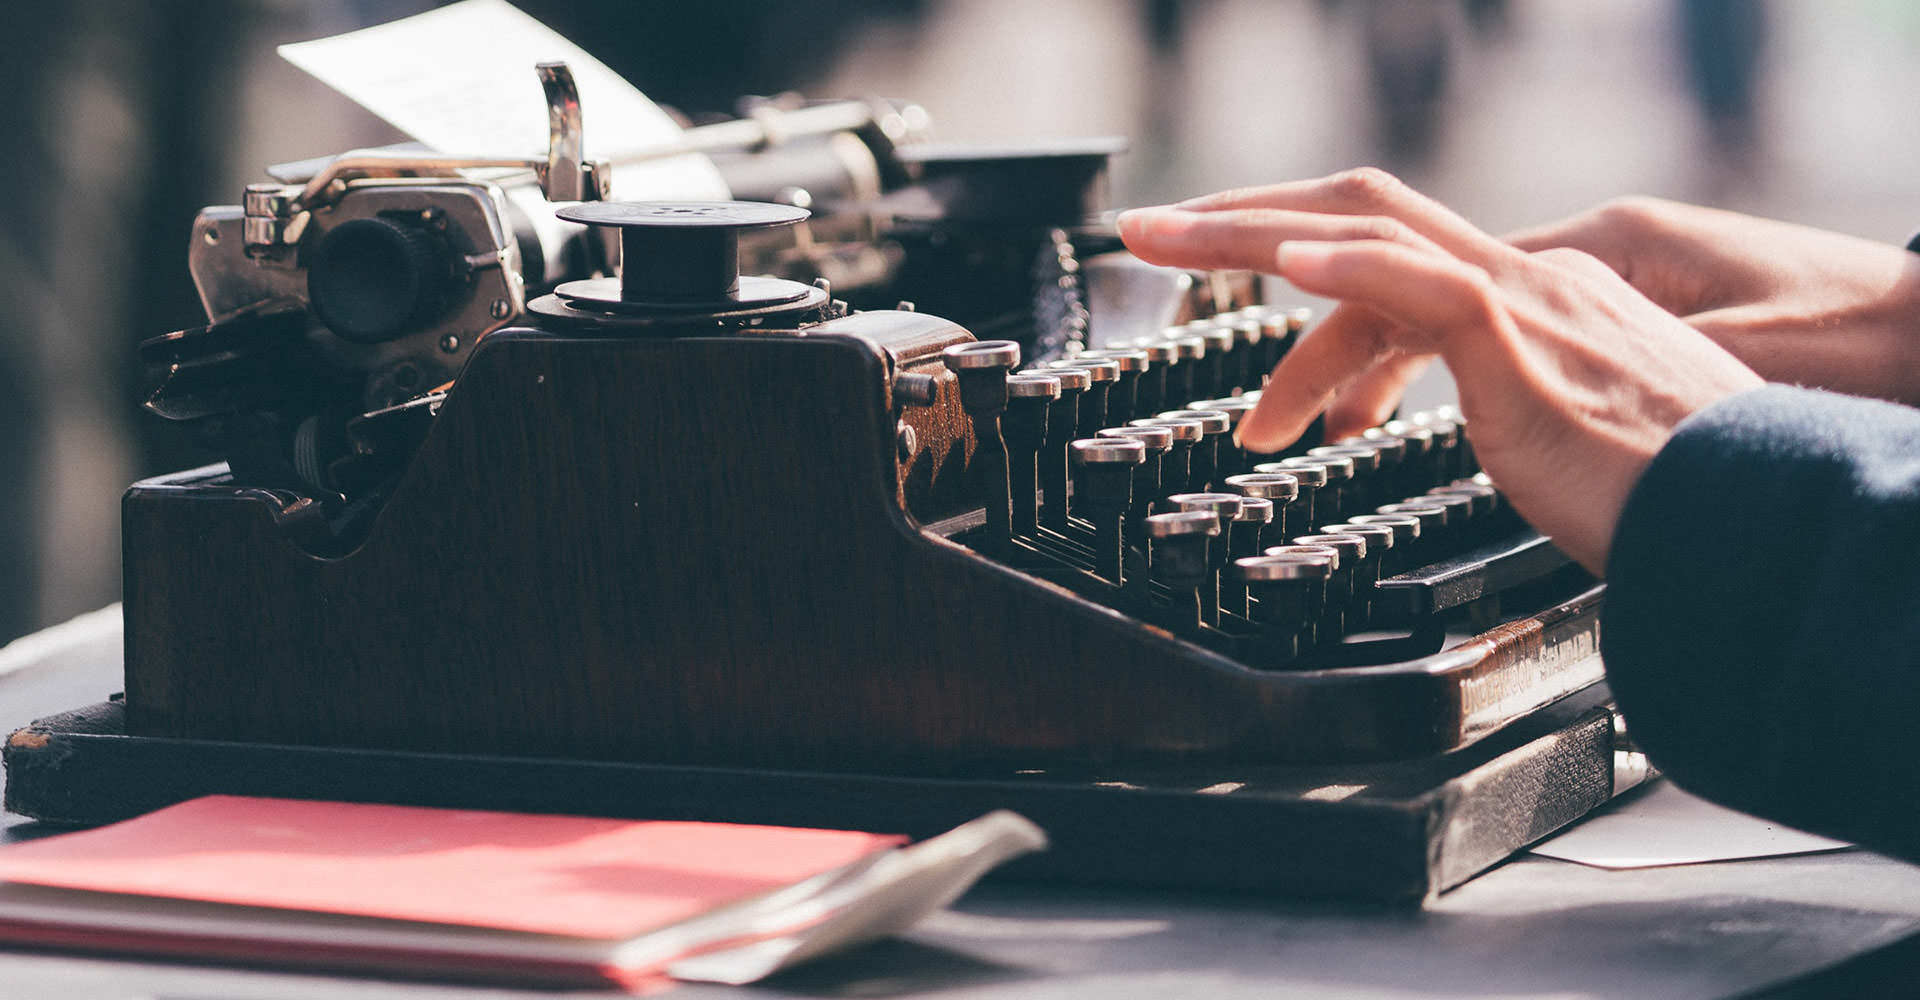
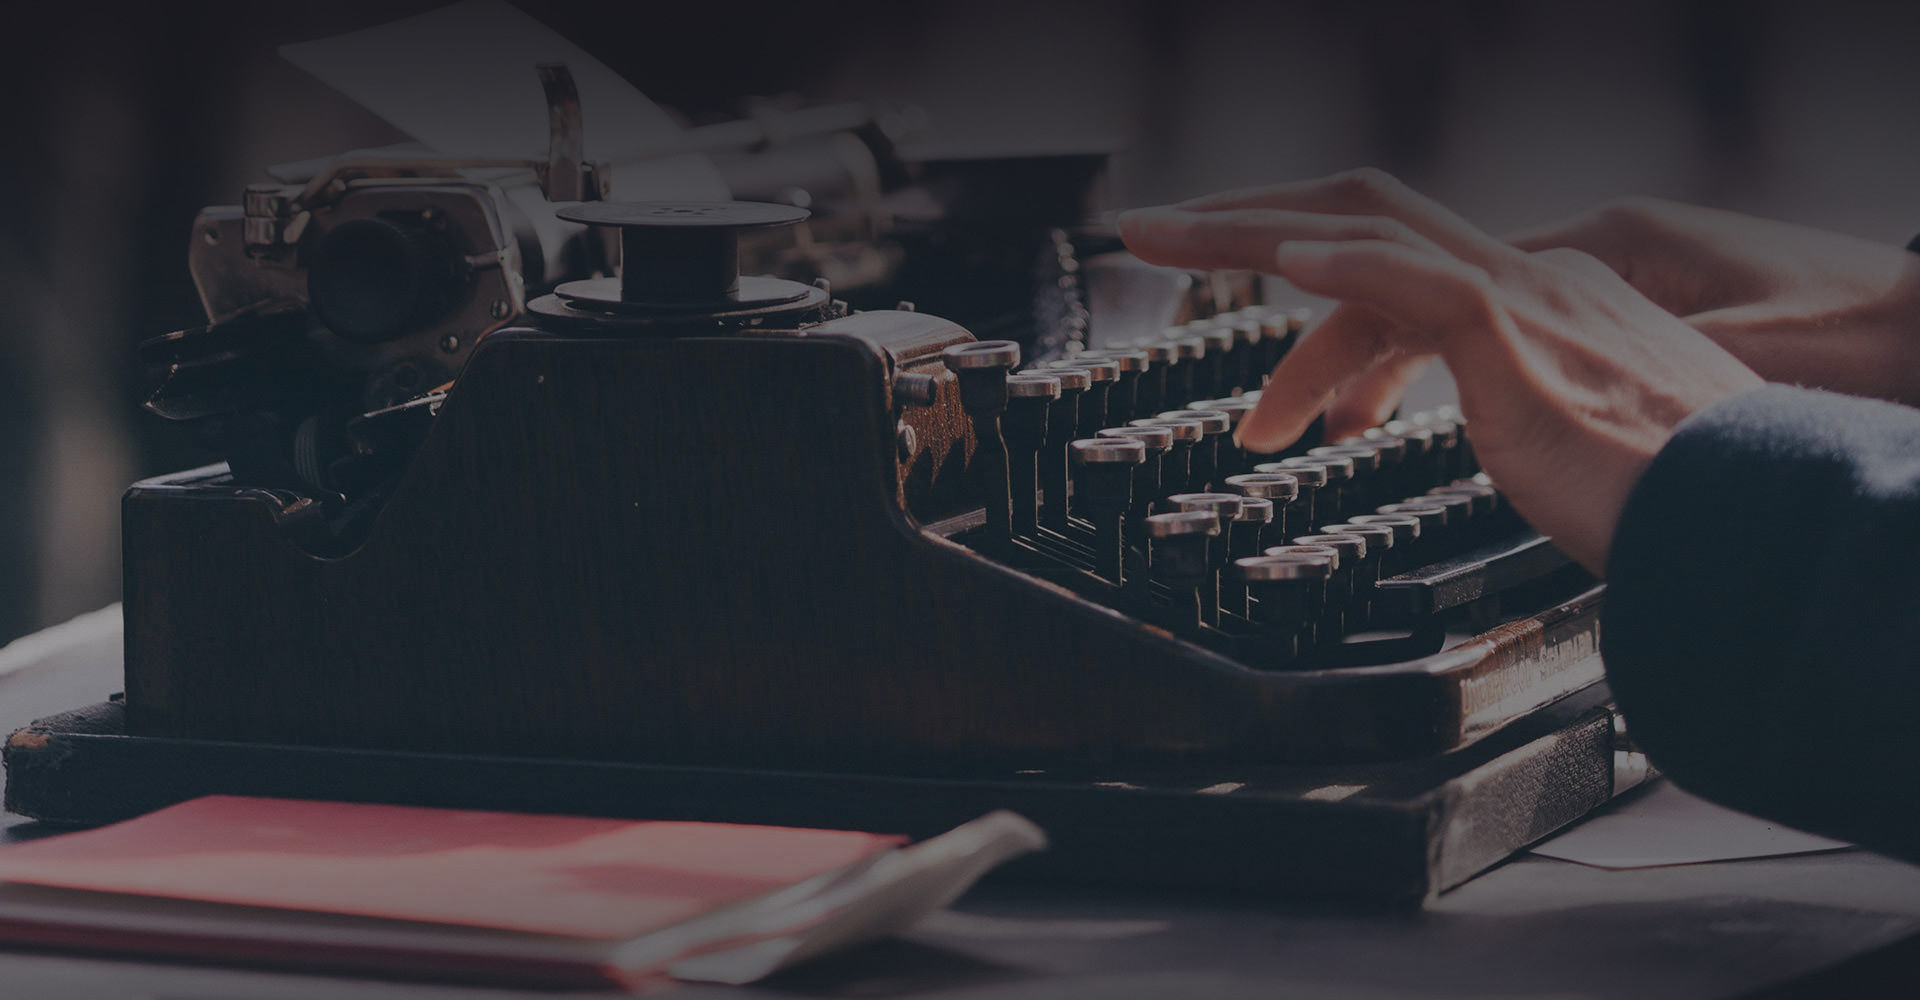
add blog

diff --git a/application/views/pages/blog_report.php b/application/views/pages/blog_report.php
@@ -1,0 +1,160 @@
+<?php
+$this->load->view('layout/header');
+?>
+
+<!-- Slider
+============================================= -->
+<section id="slider" class="slider-element include-header" style="background:#1E232A; height: 300px;">
+    <div class="move-bg position-absolute w-100 h-100" style="top: 0; left: 0; background: url('<?php echo base_url(); ?>assets/writer/images/testimonials.jpg') center 40% no-repeat; background-size: cover;"></div>
+    <div class="vertical-middle">
+        <div class="container dark center">
+            <h2 style="font-size: 44px;" class="mb-0 nott">Blog</h2>
+
+        </div>
+    </div>
+
+  
+</section>
+
+<!-- Content
+============================================= -->
+<section id="content">
+    <div class="content-wrap pt-0" style="background-color: #1E232A;">
+
+        <!-- Latest All Books
+        ============================================= -->
+        <div class="section dark pb-0 m-0 bg-transparent">
+            <div class="container clearfix">
+
+                <div class="row gutter-40 col-mb-80" style="min-height: 600px">
+                    <!-- Post Content
+                    ============================================= -->
+                    <div class="postcontent col-lg-9">
+
+                        <div class="single-post mb-0 posts-md">
+
+                            <!-- Single Post -->
+                            <div class="entry clearfix">
+                                <div class="entry-title title-xs nott">
+                                    <h3><a href="#" class="text-white"><?php echo $selected_blog['title']; ?></a></h3>
+                                </div>
+                                <div class="entry-meta">
+                                    <ul>
+                                        <li><i class="icon-calendar3"></i><?php echo $selected_blog['date']; ?></li>
+                                    </ul>
+                                </div>
+                                <!-- Entry Content
+                                ============================================= -->
+                                <div class="entry-content clearfix">
+
+                                    <img src="https://dds.christianappdevelopers.com/evans_laravel_admin/storage/app/public/<?php echo $selected_blog['image']; ?>" alt="Blog Single" class="alignleft" width="50%">
+
+
+                                    <p>
+                                        <?php echo $selected_blog['description']; ?>
+                                    </p>
+
+                                    <div class="clear"></div>
+
+
+
+                                </div>
+                            </div><!-- .entry end -->
+
+
+                            <h4>Related Blogs:</h4>
+
+
+                            <div class="related-posts row posts-md col-mb-30">
+                                <?php
+                                foreach ($blog_data as $key => $value) {
+                                    $getdata = $this->input->get();
+                                    $getdata['blog_index'] = $key;
+                                    $getdataurl = http_build_query($getdata);
+                                    $blogurl = (site_url("blog")."?" . $getdataurl);
+                                    
+                                    ?>
+                                    <div class="entry col-12 col-md-6">
+                                        <div class="grid-inner row align-items-center gutter-20">
+                                            <div class="col-4">
+                                                <div class="entry-image">
+                                                    <a href="<?php echo $blogurl;?>"><img src="https://dds.christianappdevelopers.com/evans_laravel_admin/storage/app/public/<?php echo $value['image']; ?>" alt="Blog Single"></a>
+                                                </div>
+                                            </div>
+                                            <div class="col-8">
+                                                <div class="entry-title title-xs nott">
+                                                    <h3><a href="<?php echo $blogurl;?>" class="text-white" style="font-size: 14px;"><?php echo $value['title']; ?></a></h3>
+                                                </div>
+                                                <div class="entry-meta">
+                                                    <ul>
+                                                        <li><i class="icon-calendar3"></i><?php echo $value['date']; ?></li>
+                                                    </ul>
+                                                </div>
+
+                                            </div>
+                                        </div>
+                                    </div>
+                                    <?php
+                                }
+                                ?>
+                            </div>
+
+
+                            <!-- Comments
+                            ============================================= -->
+
+                        </div>
+
+                    </div><!-- .postcontent end -->
+
+                    <!-- Sidebar
+                    ============================================= -->
+                    <div class="sidebar col-lg-3">
+                        <div class="sidebar-widgets-wrap">
+
+                            <div id="" class="widget  clearfix">
+
+                                <h4>Months</h4>
+                                <!--                                <h5>Subscribe to Our Newsletter to get Important News, Amazing Offers &amp; Inside Scoops:</h5>-->
+                                <form action="#" class="my-0">
+                                    <div class="input-group mx-auto">
+                                        <div class="col-12 form-group">
+                                            <label class="nott" for="donation_period"></label>
+                                            <select id="cars"  name="blogs-by-month"  class="sm-form-control" >
+                                                <?php foreach ($data as $key => $value) { ?>
+
+
+                                                    <option <?php echo $value == $select_month ? 'selected' : '' ?> value="<?php echo $value; ?>"><?php echo $value; ?></option>
+                                                <?php } ?>
+                                            </select>
+                                        </div>
+                                        <button class="btn btn-success" type="submit" name="submit" style="border-radius: 0.25rem;">Submit</button>
+                                    </div>
+                                </form>
+                            </div>
+
+
+
+
+
+
+
+
+
+                        </div>
+                    </div><!-- .sidebar end -->
+                </div>
+
+            </div>
+
+        </div>
+    </div>
+</section><!-- #content end -->
+
+<!-- Footer
+============================================= -->
+
+<?php
+$this->load->view('layout/footer');
+?>
+

diff --git a/application/controllers/Pages.php b/application/controllers/Pages.php
@@ -330,4 +330,59 @@ class Pages extends CI_Controller {
         imagejpeg($image); //showing the image
     }
 
+    public function blog_api() {
+        $ch = curl_init();
+        curl_setopt($ch, CURLOPT_URL, "http://dds.christianappdevelopers.com:3000/v1/blogs/archive-dates/");
+        curl_setopt($ch, CURLOPT_RETURNTRANSFER, 1);
+        curl_setopt($ch, CURLOPT_POST, 0);
+        $response = curl_exec($ch);
+        curl_close($ch);
+        $data = json_decode($response, 1);
+        return $data;
+    }
+
+    function blogApi($selectmonth) {
+        $dat = str_replace(" ", "%20", $selectmonth);
+        $link1 = "http://dds.christianappdevelopers.com:3000/v1/blogs/blogs-by-month/$dat";
+      
+        $ch = curl_init();
+        curl_setopt($ch, CURLOPT_URL, $link1);
+        curl_setopt($ch, CURLOPT_RETURNTRANSFER, 1);
+        curl_setopt($ch, CURLOPT_POST, 0);
+        $response = curl_exec($ch);
+        curl_close($ch);
+        return json_decode($response, 1);
+    }
+
+    function blog_report() {
+        $input_data = $this->input->get();
+
+
+        $res = $this->blog_api();
+        $tempselectsdates = array();
+        $datearrayt = $res[0];
+        $datearray = array_reverse($datearrayt);
+        $selectedblogindex = 0;
+        foreach ($datearray as $key => $value) {
+            $tempselectsdates[$value['substr_date']] = $value['substr_date'];
+        }
+        $data['data'] = $tempselectsdates;
+        $selectmonth = $datearray[0]['substr_date'];
+
+        if (isset($input_data["submit"])) {
+            $selectmonth = $input_data['blogs-by-month'];
+        }
+        if (isset($input_data["blog_index"])) {
+            $selectedblogindex = $input_data["blog_index"];
+        }
+        ////////////////
+        $blogdata = $this->blogApi($selectmonth);
+      
+        $data['selected_blog'] = $blogdata[$selectedblogindex];
+        unset($blogdata[$selectedblogindex]);
+        $data['blog_data'] = $blogdata;
+        $data['select_month'] = $selectmonth;
+        $this->load->view('pages/blog_report', $data);
+    }
+
 }

diff --git a/application/views/layout/header.php b/application/views/layout/header.php
@@ -114,6 +114,8 @@
                             <nav class="primary-menu not-dark col-lg-auto order-lg-3">
 
                                 <ul class="menu-container justify-content-lg-end">
+                                    <li class="menu-item"><a class="menu-link" href="<?php echo site_url("blog"); ?>"><div>Blog </div></a></li>
+
                                     <li class="menu-item"><a class="menu-link" href="<?php echo site_url("pillar-of-fire"); ?>"><div>Pillar of Fire </div></a></li>
                                     <li class="menu-item"><a class="menu-link" href="<?php echo site_url("pillar-of-cloud"); ?>"><div>Pillar of Cloud </div></a></li>
                                     <li class="menu-item"><a class="menu-link" href="<?php echo site_url("love-offering"); ?>"><div>Love Offering </div></a></li>

diff --git a/application/views/layout/footer.php b/application/views/layout/footer.php
@@ -60,6 +60,7 @@
                                     <li class="menu-item"><a class="menu-link" href="<?php echo site_url("about-us"); ?>"><div>About</div></a></li>
                                     <li class="menu-item"><a class="menu-link" target="_blank" href="https://www.evansfrancisbooks.com/"><div>Books</div></a></li>
                                     <li class="menu-item"><a class="menu-link" target="_blank" href="https://christianappdevelopers.com/"><div>Apps</div></a></li>
+                                    <li class="menu-item"><a class="menu-link" href="<?php echo site_url("blog"); ?>"><div>Blog</div></a></li>
 
 
                                 </ul>

diff --git a/application/config/routes.php b/application/config/routes.php
@@ -58,5 +58,5 @@ $route['pillar-of-fire'] = 'Pages/pillar_of_fire';
 $route['pillar-of-cloud'] = 'Pages/pillar_of_cloud';
 $route['invite'] = 'Pages/invite';
 $route['love-offering'] = 'Pages/love_offering';
-
+$route['blog'] = 'Pages/blog_report/$1';
 $route['translate_uri_dashes'] = FALSE;
